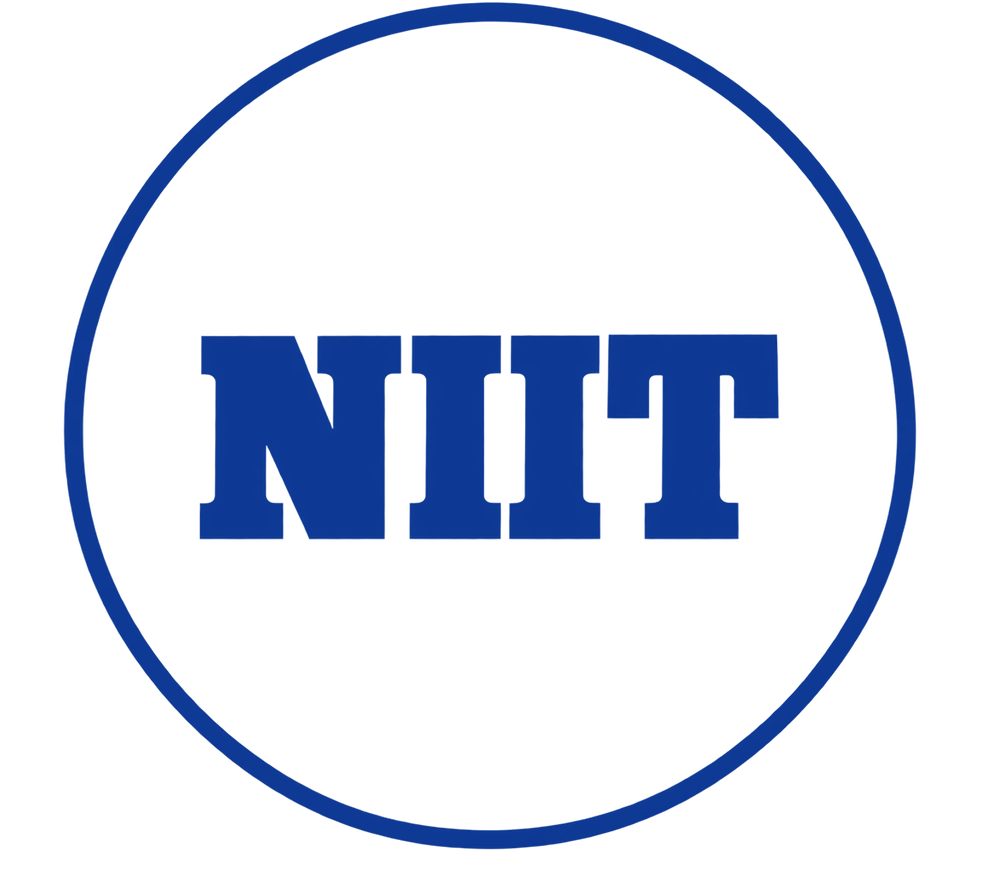
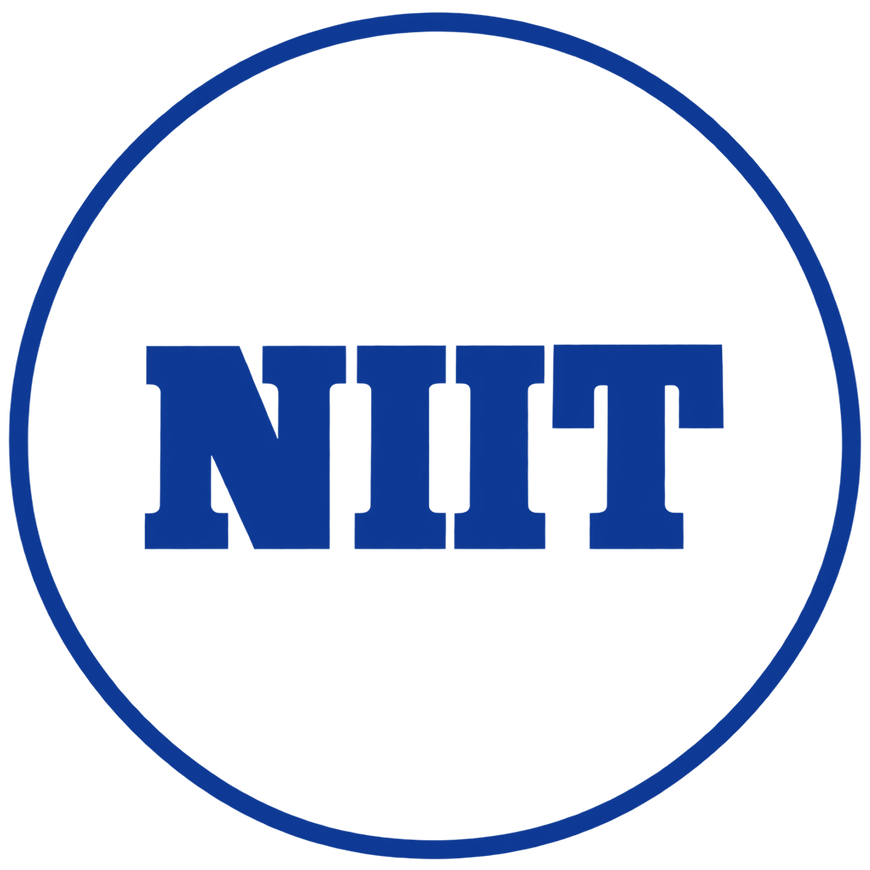
update presentation assets

Changed region(s): [[0.0, 0.0621, 0.9931, 0.9931], [0.1552, 0.3724, 0.8379, 0.6517], [0.3103, 0.0, 0.6828, 0.0931]]

diff --git a/app.js b/app.js
@@ -7509,10 +7509,23 @@ function generateReport(keepExclusions = true) {
     }
     
     if (reportLogo) {
+        const isCompactLogo = (state.activeClient === "NIIT MTS" || state.activeClient === "NIIT" || state.activeClient === "BT Group");
         if (state.activeClient === "RVNL") {
             reportLogo.src = "inputs/RVNL logo.png";
+            reportLogo.classList.remove("compact-logo");
+            reportLogo.style.height = "44px";
+            reportLogo.style.width = "auto";
         } else {
             reportLogo.src = getClientLogo(state.activeClient);
+            if (isCompactLogo) {
+                reportLogo.classList.add("compact-logo");
+                reportLogo.style.height = "64px";
+                reportLogo.style.width = "64px";
+            } else {
+                reportLogo.classList.remove("compact-logo");
+                reportLogo.style.height = "46px";
+                reportLogo.style.width = "auto";
+            }
         }
     }
 
@@ -8804,8 +8817,8 @@ const KNOWN_LOGO_DIMS = {
     "inputs/dynpro.png": { width: 800, height: 226 },
     "inputs/8th sin.png": { width: 2172, height: 724 },
     "inputs/candour C.png": { width: 301, height: 300 },
-    "inputs/NIIT REVISED.png": { width: 988, height: 881 },
-    "inputs/NIIT_MTS_logo.png": { width: 988, height: 881 }
+    "inputs/NIIT REVISED.png": { width: 870, height: 870 },
+    "inputs/NIIT_MTS_logo.png": { width: 870, height: 870 }
 };
 
 // Helper: Load local or remote image, extract natural dimensions and return base64/path

diff --git a/index.css b/index.css
@@ -1471,6 +1471,7 @@ h1, h2, h3, h4, h5, h6 {
     justify-content: space-between;
     align-items: center;
     margin-bottom: 20px;
+    min-height: 64px;
 }
 
 .report-brand {
@@ -1501,13 +1502,25 @@ h1, h2, h3, h4, h5, h6 {
 }
 
 .client-logo {
-    font-family: var(--font-heading);
-    font-weight: 700;
-    font-size: 18px;
-    color: #1e3a8a;
-    border: 2px solid #e5e7eb;
-    padding: 6px 16px;
-    border-radius: 8px;
+    display: flex;
+    align-items: center;
+    justify-content: flex-end;
+    border: none;
+    padding: 0;
+}
+
+#report-client-logo {
+    height: 48px;
+    max-height: 66px;
+    max-width: 220px;
+    width: auto;
+    object-fit: contain;
+    display: block;
+}
+
+#report-client-logo.compact-logo {
+    height: 64px;
+    width: 64px;
 }
 
 .report-meta-grid {

diff --git a/index.html b/index.html
@@ -554,8 +554,8 @@
                                     <span id="report-client-subtitle">PR, Social Media & Creative Marketing Report</span>
                                 </div>
                             </div>
-                            <div class="client-logo" style="border: none; padding: 0;">
-                                <img id="report-client-logo" src="inputs/RVNL logo.png" alt="RVNL Logo" style="height: 44px; width: auto; object-fit: contain;">
+                            <div class="client-logo">
+                                <img id="report-client-logo" src="inputs/RVNL logo.png" alt="Client Logo">
                             </div>
                         </div>
                         <div class="report-meta-grid">
